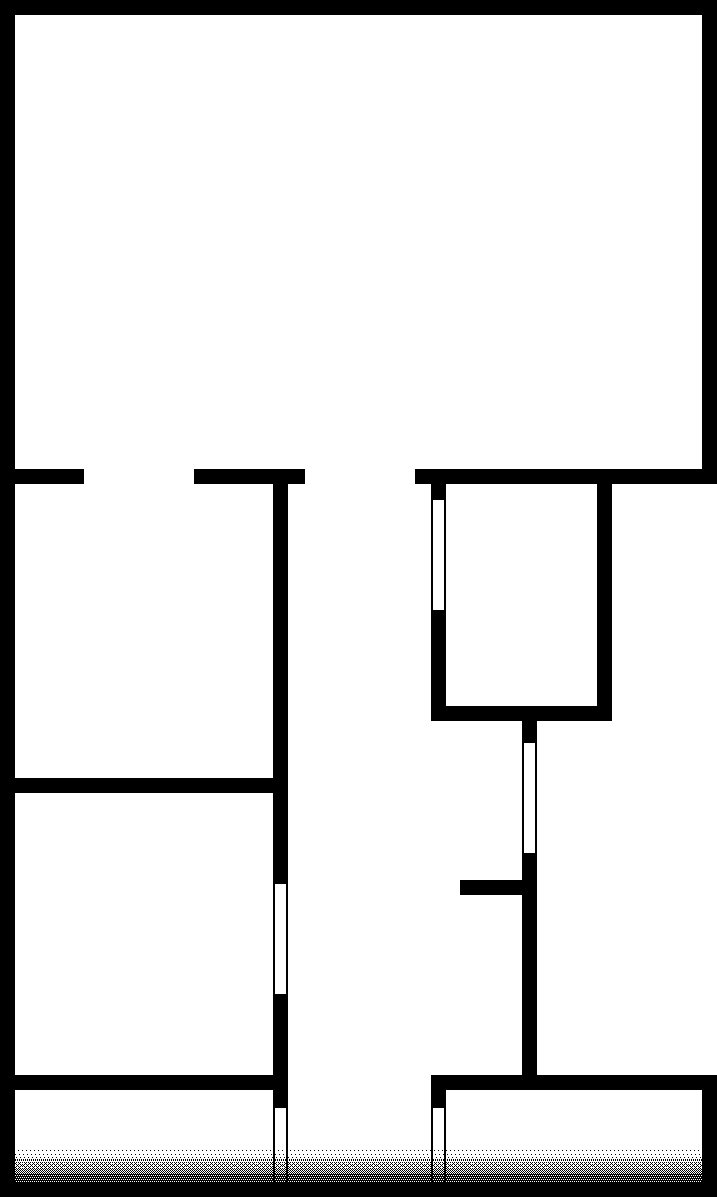
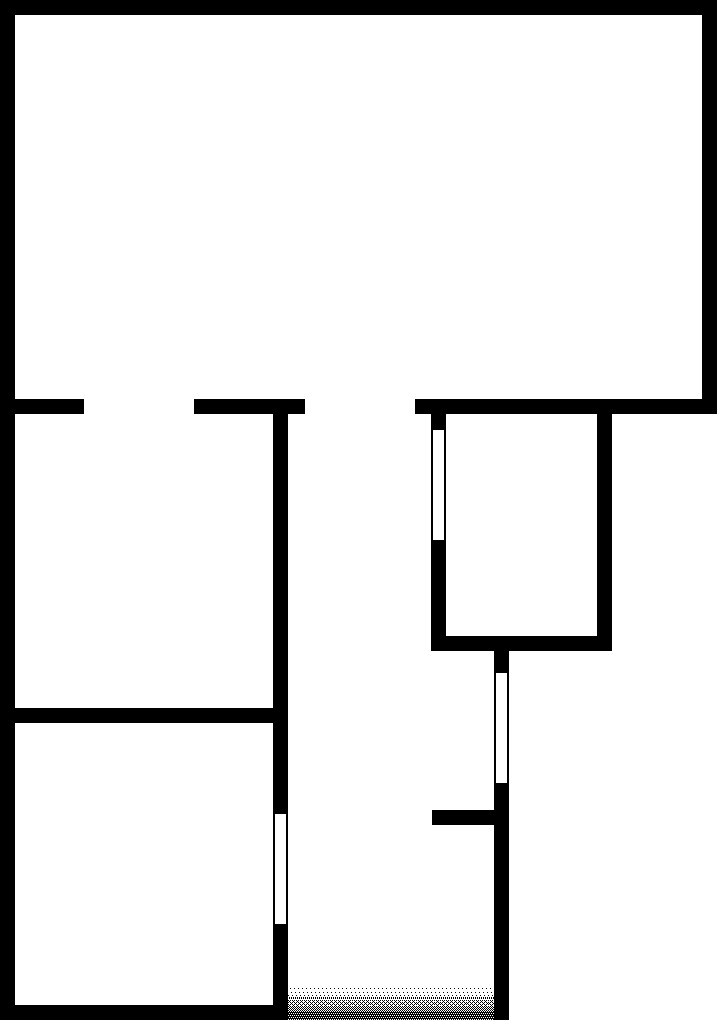
updated plan

Changed region(s): [[0.0, 0.5775, 1.0, 1.0], [0.583, 0.5167, 0.6137, 0.5471]]

diff --git a/client/src/pages/Plan/PlanPage.js b/client/src/pages/Plan/PlanPage.js
@@ -7,16 +7,14 @@ const PlanPage = ({tasks, fetchTasks, fetchUsers}) => {
   /* Zones */
 
   const [zones, setZones] = useState([
-    {id: "Salon",   selected: false, points: "15,15 702,15 702,469 15,469"},
-    {id: "Cuisine", selected: false, points: "15,484 273,484 273,778 15,778"},
-    {id: "SDB",     selected: false, points: "15,793 273,793 273,1075 15,1075"},
-    {id: "Couloir", selected: false, points: "288,484 431,484 431,721 522,721 522,1075 431,1075 431,1150 288,1150"},
-    {id: "WC",      selected: false, points: "446,484 597,484 597,706 446,706"}
+    {id: "Salon",   textX: 358, textY: 132, selected: false, points: "15,15 702,15 702,399 15,399"},
+    {id: "Cuisine", textX: 144, textY: 521, selected: false, points: "15,414 273,414 273,708 15,708"},
+    {id: "SDB",     textX: 144, textY: 824, selected: false, points: "15,723 273,723 273,1005 15,1005"},
+    {id: "Couloir", textX: 360, textY: 690, selected: false, points: "288,414 431,414 431,651 494,651 494,1020 288,1020"},
+    {id: "WC",      textX: 520, textY: 485, selected: false, points: "446,414 597,414 597,636 446,636"}
   ]);
 
   const handleZoneClick = (zone) => {
-    console.log("CLIC-----------------K");
-
     setZones(zones => zones.map(z => {
       return z.id === zone.id ? { ...z, selected:!z.selected } : z;
     }));
@@ -81,11 +79,41 @@ const PlanPage = ({tasks, fetchTasks, fetchUsers}) => {
         <button className="title-bar-item big-button success" onClick={()=>{openCleaningModal()}} disabled={!zones.some(zone => zone.selected)}>J'ai fait le ménage</button>
       </div>
       <div style={{textAlign:"center",margin:"10px"}}>
-        <svg viewBox="0 0 718 1180" width="80%" height="auto" preserveAspectRatio="xMidYMid meet">
+        <svg viewBox="0 0 717 1020" height="70vh" preserveAspectRatio="xMidYMid meet">
           <image href="images/plan.png"/>
-          {zones.map((zone) => (
-            <polygon key={zone.id} points={zone.points} className={`zone ${zone.selected?"selected":""}`} onClick={() => handleZoneClick(zone)}/>
-          ))}
+          <svg xmlns="http://www.w3.org/2000/svg" width="24" height="24" x={20} y={20} viewBox="0 0 24 24" fill="none" stroke="black" stroke-width="2" stroke-linecap="round" stroke-linejoin="round" class="lucide lucide-brush-cleaning preview-icon"><path d="m16 22-1-4"/><path d="M19 14a1 1 0 0 0 1-1v-1a2 2 0 0 0-2-2h-3a1 1 0 0 1-1-1V4a2 2 0 0 0-4 0v5a1 1 0 0 1-1 1H6a2 2 0 0 0-2 2v1a1 1 0 0 0 1 1"/><path d="M19 14H5l-1.973 6.767A1 1 0 0 0 4 22h16a1 1 0 0 0 .973-1.233z"/><path d="m8 22 1-4"/></svg>
+          <text key={"l1"} x={50} y={40} fontSize="18" textAnchor="left">Poussières</text>
+          <svg xmlns="http://www.w3.org/2000/svg" width="24" height="24" x={20} y={50} viewBox="0 0 24 24" fill="none" stroke="black" stroke-width="2" stroke-linecap="round" stroke-linejoin="round" class="lucide lucide-broom preview-icon"><path d="M13.5 10.5 22 2"/><path d="M14.734 13.841a2 2 0 00-.314-2.42L12.58 9.58a2 2 0 00-2.421-.314l-7.657 4.461A1 1 0 002.3 15.3l6.403 6.403a1 1 0 001.571-.204z"/><path d="m5 18 2-2"/><path d="m7.699 10.7 5.602 5.601"/></svg>
+          <text key={"l2"} x={50} y={70} fontSize="18" textAnchor="left">Aspi/balai</text>
+          <svg xmlns="http://www.w3.org/2000/svg" width="24" height="24" x={20} y={80} viewBox="0 0 24 24" fill="none" stroke="black" stroke-width="2" stroke-linecap="round" stroke-linejoin="round" class="lucide lucide-mop preview-icon"><path d="M10 22c2.761 0 5-1.79 5-4-4.42 0-4.08-5-8.5-5a1 1 0 100 9za3 3 0 01-3-3"/><path d="M12.5 11.5 22 2"/><path d="m6.98 13.02 2.665-2.664a1.21 1.21 0 011.71 0l2.29 2.288a1.21 1.21 0 010 1.712l-2.088 2.087"/></svg>
+          <text key={"l3"} x={50} y={100} fontSize="18" textAnchor="left">Serpillère</text>
+
+          {zones.map((zone) => {
+            const zoneTasks = tasks.filter(task => {
+                const taskSplit = task.title.split(" : ");
+                return (zone.id === taskSplit[0])}
+              ).sort((a,b) => {return a.title.localeCompare(b.title);})
+            return <>
+              <text key={zone.id+"t"} x={zone.textX} y={zone.textY} fontSize="24" textAnchor="middle" dominantBaseline="middle">{zone.id}</text>
+
+              <svg xmlns="http://www.w3.org/2000/svg" width="24" height="24" x={zone.textX-27} y={zone.textY+20} viewBox="0 0 24 24" fill="none" stroke="black" stroke-width="2" stroke-linecap="round" stroke-linejoin="round" class="lucide lucide-brush-cleaning preview-icon"><path d="m16 22-1-4"/><path d="M19 14a1 1 0 0 0 1-1v-1a2 2 0 0 0-2-2h-3a1 1 0 0 1-1-1V4a2 2 0 0 0-4 0v5a1 1 0 0 1-1 1H6a2 2 0 0 0-2 2v1a1 1 0 0 0 1 1"/><path d="M19 14H5l-1.973 6.767A1 1 0 0 0 4 22h16a1 1 0 0 0 .973-1.233z"/><path d="m8 22 1-4"/></svg>
+              {zoneTasks[1].limit_date && new Date(zoneTasks[1].limit_date) > new Date().setHours(0,0,0,0)?
+                <svg xmlns="http://www.w3.org/2000/svg" width="24" height="24" x={zone.textX+3} y={zone.textY+20} viewBox="0 0 24 24" fill="none" stroke="green" stroke-width="2" stroke-linecap="round" stroke-linejoin="round" class="lucide lucide-check preview-icon"><path d="M20 6 9 17l-5-5"/></svg>:
+                <text key={zone.id+"ld1"} x={zone.textX+5} y={zone.textY+34} stroke="red" dominantBaseline="middle">{new Date(zoneTasks[1].limit_date).toLocaleDateString("fr-FR", {day: "2-digit", month: "2-digit"})}</text>}
+              
+              <svg xmlns="http://www.w3.org/2000/svg" width="24" height="24" x={zone.textX-27} y={zone.textY+50} viewBox="0 0 24 24" fill="none" stroke="black" stroke-width="2" stroke-linecap="round" stroke-linejoin="round" class="lucide lucide-broom preview-icon"><path d="M13.5 10.5 22 2"/><path d="M14.734 13.841a2 2 0 00-.314-2.42L12.58 9.58a2 2 0 00-2.421-.314l-7.657 4.461A1 1 0 002.3 15.3l6.403 6.403a1 1 0 001.571-.204z"/><path d="m5 18 2-2"/><path d="m7.699 10.7 5.602 5.601"/></svg>
+              {zoneTasks[0].limit_date && new Date(zoneTasks[0].limit_date) > new Date().setHours(0,0,0,0)?
+                <svg xmlns="http://www.w3.org/2000/svg" width="24" height="24" x={zone.textX+3} y={zone.textY+50} viewBox="0 0 24 24" fill="none" stroke="green" stroke-width="2" stroke-linecap="round" stroke-linejoin="round" class="lucide lucide-check preview-icon"><path d="M20 6 9 17l-5-5"/></svg>:
+                <text key={zone.id+"ld0"} x={zone.textX+5} y={zone.textY+64} stroke="red" dominantBaseline="middle">{new Date(zoneTasks[0].limit_date).toLocaleDateString("fr-FR", {day: "2-digit", month: "2-digit"})}</text>}
+              
+              <svg xmlns="http://www.w3.org/2000/svg" width="24" height="24" x={zone.textX-27} y={zone.textY+80} viewBox="0 0 24 24" fill="none" stroke="black" stroke-width="2" stroke-linecap="round" stroke-linejoin="round" class="lucide lucide-mop preview-icon"><path d="M10 22c2.761 0 5-1.79 5-4-4.42 0-4.08-5-8.5-5a1 1 0 100 9za3 3 0 01-3-3"/><path d="M12.5 11.5 22 2"/><path d="m6.98 13.02 2.665-2.664a1.21 1.21 0 011.71 0l2.29 2.288a1.21 1.21 0 010 1.712l-2.088 2.087"/></svg>
+              {zoneTasks[2].limit_date && new Date(zoneTasks[2].limit_date) > new Date().setHours(0,0,0,0)?
+                <svg xmlns="http://www.w3.org/2000/svg" width="24" height="24" x={zone.textX+3} y={zone.textY+80} viewBox="0 0 24 24" fill="none" stroke="green" stroke-width="2" stroke-linecap="round" stroke-linejoin="round" class="lucide lucide-check preview-icon"><path d="M20 6 9 17l-5-5"/></svg>:
+                <text key={zone.id+"ld2"} x={zone.textX+5} y={zone.textY+94} stroke="red" dominantBaseline="middle">{new Date(zoneTasks[2].limit_date).toLocaleDateString("fr-FR", {day: "2-digit", month: "2-digit"})}</text>}
+            
+              <polygon key={zone.id} points={zone.points} className={`zone ${zone.selected?"selected":""}`} onClick={() => handleZoneClick(zone)}/>
+            </>
+          })}
         </svg>
       </div>
 

diff --git a/client/src/pages/styles.css b/client/src/pages/styles.css
@@ -236,6 +236,7 @@ h2 {
 }
 
 .success {background-color: var(--success); color: white;}
+.success:disabled {background-color: var(--info); color: var(--text-soft);}
 .danger {background-color: var(--danger); color: white;}
 .info {background-color: var(--info); color: white;}
 .blue {background-color: var(--blue); color: white;}
@@ -553,8 +554,7 @@ h2 {
 .voice-button {
     position: fixed;
     bottom: 270px;
-    left: 50%;
-    margin-left: -60px;
+    right: 30px;
     width: 120px;
     height: 120px;
 
@@ -710,7 +710,7 @@ h2 {
 }
 
 .zone.selected {
-    fill: #ffe10060;
+    fill: #11ff0060;
     stroke: transparent;
     stroke-width: 1;
 }
@@ -817,7 +817,7 @@ textarea {
     .voice-button {
         position: fixed;
         bottom: 90px;
-        margin-left: -25px;
+        right: 10px;
         width: 50px;
         height: 50px;
     }

diff --git a/client/src/pages/data/data.js b/client/src/pages/data/data.js
@@ -1,9 +1,8 @@
 export const labels = [
-  { title: 'Maddy', active: false },
-  { title: 'Mathis', active: false },
   { title: 'Ménage', active: true },
-  { title: 'Rangement', active: true },
   { title: 'Organisation', active: true },
   { title: 'Bricolage', active: true },
+  { title: 'Maddy', active: false },
+  { title: 'Mathis', active: false },
   { title: 'Plan', active: false }
 ];
